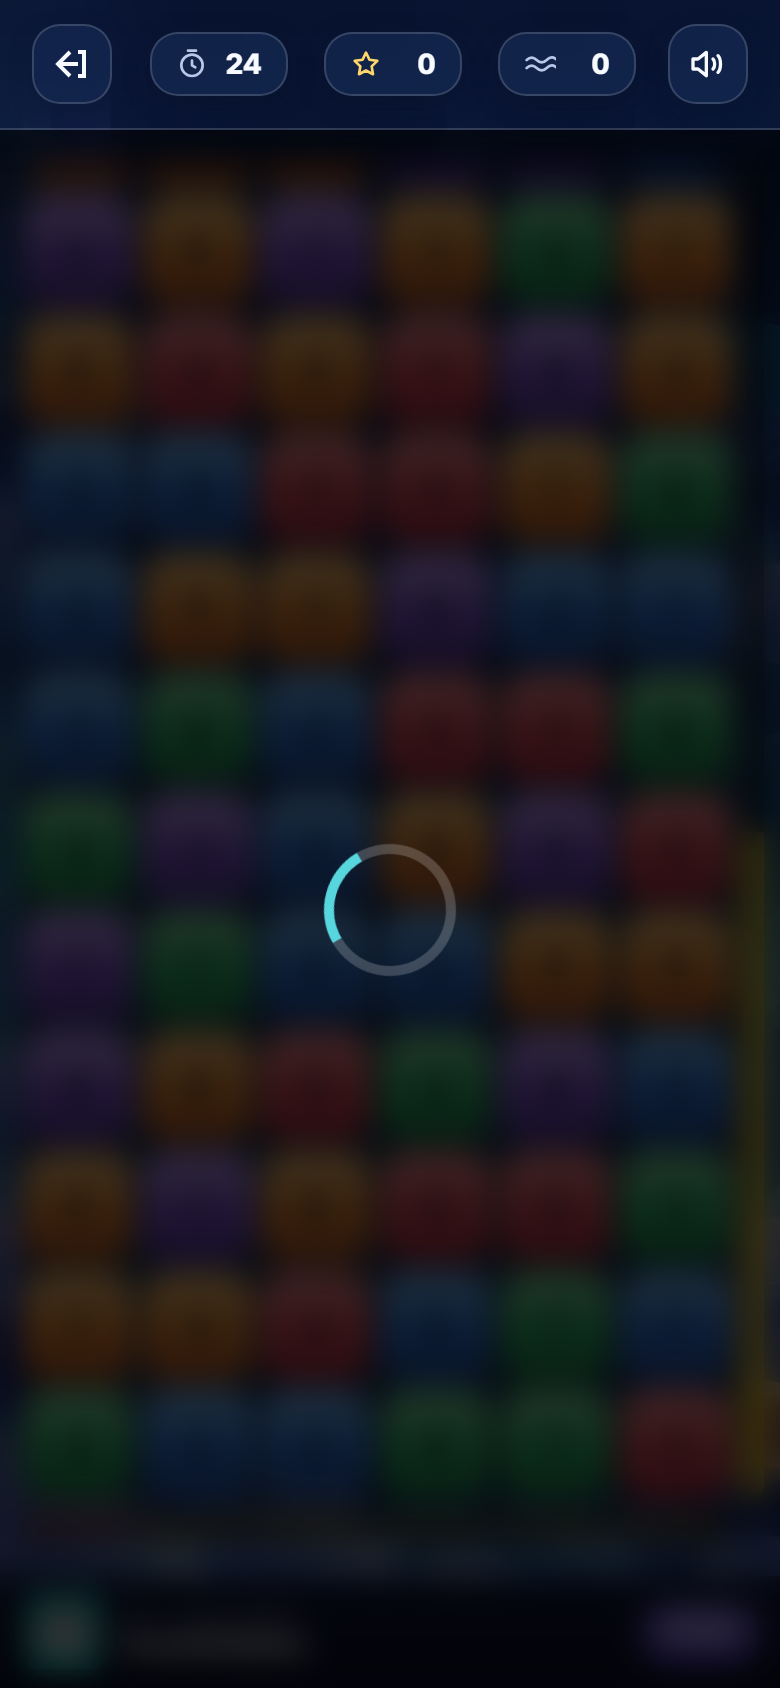
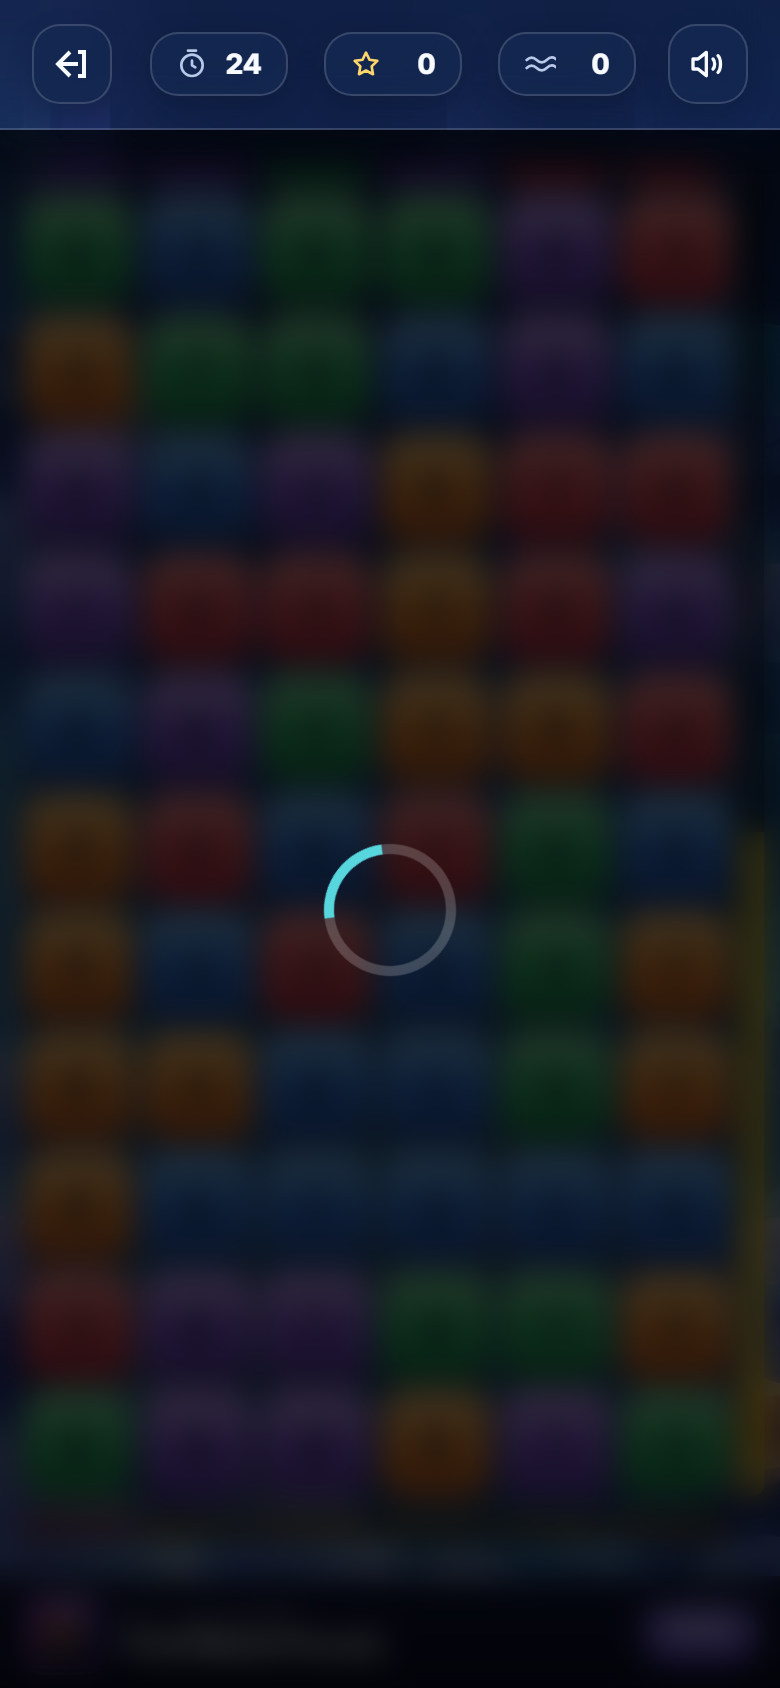
Игра перестала выглядеть тусклой: поднято обрамление доски
Тусклость оказалась не в плитках. Замер кадра до и после редизайна показал,
что доска стала насыщеннее на 28%, а вот яркость упала: в шапке на 31%, по
зоне поля на 10%, по кадру на 5%. Глаз считывает прежде всего яркость, поэтому
более насыщенная картинка читалась как более тусклая.

Виновато обрамление, а не поле:

- слой затемнения над небом в партии стоял на 18% из брифа. Восемнадцать
  процентов считались от прежней светлой подложки, а поверх тёмного неба
  уводили в минус всю картинку. Читаемости цифр слой не добавляет вовсе:
  цифры лежат на непрозрачных плитках, а слой под ними. Теперь 10%;
- ниша под доской была почти непрозрачной, небо в ней не читалось. Стала
  светлее и прозрачнее, внутренняя тень мягче;
- шапка была залита плотным rgba(8,18,45,.55) — самая тёмная зона экрана.
  Теперь светлее и прозрачнее, небо сквозь неё видно.

После правок по кадру: яркость +3% против старой версии (была −5%), по зоне
поля +5% (была −1%), насыщенность держится на +22%. То есть теперь и ярче
прежнего, и насыщеннее.

diff --git a/src/shared/components/AppLayout.vue b/src/shared/components/AppLayout.vue
@@ -44,10 +44,16 @@ import TopBar from './TopBar.vue'
 	   это читалось как грязь: розовые плитки стояли в розовом пятне, синие в
 	   синем, и разница между ними падала.
 
-	   Теперь ровно один слой навигацкого синего в 18%. Задача у него не
-	   украшать, а увести небо на шаг назад, чтобы цифры на плитках держали
-	   контраст. Ставится только здесь, то есть только в партии: на стартовой
-	   странице небо показывается как есть.
+	   Теперь ровно один слой навигацкого синего. Задача у него не украшать, а
+	   увести небо на шаг назад. Ставится только здесь, то есть только в партии:
+	   на стартовой странице небо показывается как есть.
+
+	   Плотность 10%, а не 18%, как в брифе. Восемнадцать процентов считались от
+	   прежней светлой подложки; поверх тёмного неба они уводили в минус всю
+	   картинку — замер показал по зоне поля −10% яркости против старой версии
+	   при выросшей насыщенности, и это читалось именно как «тускло». Читаемости
+	   цифр слой не добавляет вовсе: цифры лежат на непрозрачных плитках, а слой
+	   под ними.
 	*/
 	&::before {
 		content: '';
@@ -56,7 +62,7 @@ import TopBar from './TopBar.vue'
 		left: 0;
 		right: 0;
 		bottom: 0;
-		background: rgba(8, 18, 45, 0.18);
+		background: rgba(8, 18, 45, 0.1);
 		pointer-events: none;
 		z-index: 0;
 	}

diff --git a/src/shared/components/TopBar.vue b/src/shared/components/TopBar.vue
@@ -56,9 +56,16 @@ function toggleSound() {
 	width: 100%;
 	position: relative;
 	z-index: 10;
-	// Одна матовая полоса на всю ширину: шапка должна читаться как подложка под
-	// показатели, а не как ещё один цветной элемент поверх неба.
-	background: rgba(8, 18, 45, 0.55);
+	/*
+	   Одна матовая полоса на всю ширину: шапка должна читаться как подложка под
+	   показатели, а не как ещё один цветной элемент поверх неба.
+
+	   Синий светлее и прозрачнее, чем был. С плотной заливкой rgba(8,18,45,.55)
+	   шапка теряла против прежней версии 31% яркости — это самая тёмная зона
+	   экрана, и она тянула за собой ощущение от всей игры. Небо теперь
+	   просвечивает, а показатели держатся на собственных площадках.
+	*/
+	background: rgba(24, 46, 92, 0.42);
 	backdrop-filter: blur(20px);
 	-webkit-backdrop-filter: blur(20px);
 	border-bottom: 1px solid var(--c-surface-border);

diff --git a/src/pages/GamePage.vue b/src/pages/GamePage.vue
@@ -1765,17 +1765,17 @@ async function restart(): Promise<void> {
 		background:
 			radial-gradient(
 				ellipse 115% 90% at 50% 42%,
-				rgba(7, 18, 38, 0.18) 0%,
+				rgba(7, 18, 38, 0.12) 0%,
 				transparent 60%
 			),
 			linear-gradient(
 				180deg,
-				rgba(20, 39, 79, 0.72) 0%,
-				rgba(12, 24, 52, 0.84) 100%
+				rgba(34, 62, 118, 0.5) 0%,
+				rgba(20, 39, 79, 0.62) 100%
 			);
 		box-shadow:
-			inset 0 1px 0 rgba(255, 255, 255, 0.14),
-			inset 0 6px 16px rgba(7, 18, 38, 0.45),
+			inset 0 1px 0 rgba(255, 255, 255, 0.18),
+			inset 0 6px 16px rgba(7, 18, 38, 0.32),
 			0 8px 28px rgba(7, 18, 38, 0.35);
 		border: 1px solid var(--c-surface-border);
 		border-radius: var(--r-panel);
